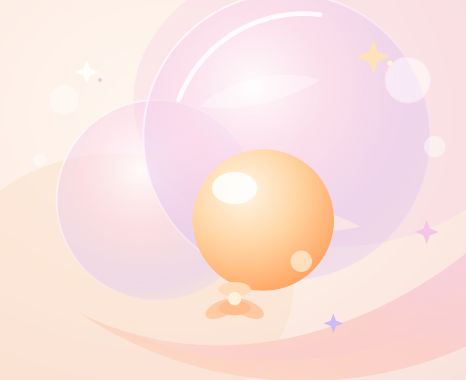
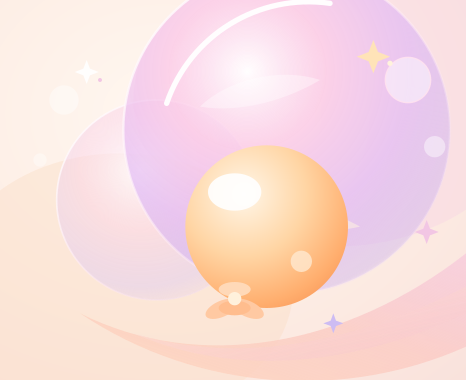
explore: the mock's remaining richness — filled play triangle, luminous hero, present backdrop bubbles, translucent glass
Element-by-element against the mock, four things were below it:

- the video tile's play is the mock's FILLED rounded triangle (drawn on
  both platforms — no filled-play glyph exists in the icon sets), not an
  outline circle-in-disc
- the hero bubbles are larger and more saturated, the sheen arc bolder,
  the core bigger — closer to the mock's luminosity
- the backdrop carries an extra iridescent bubble at the left edge and
  stronger presence on the existing ones
- every panel's glass fill opens from 0.97/0.88 to 0.90/0.79 so the
  backdrop shows through the cards the way the mock's glass does

diff --git a/ios/App/Sources/Features/Explore/ExploreView.swift b/ios/App/Sources/Features/Explore/ExploreView.swift
@@ -187,8 +187,8 @@ private struct ExploreGlass: ViewModifier {
                     .fill(
                         LinearGradient(
                             colors: [
-                                Color(red: 1.0, green: 0.980, blue: 0.965).opacity(0.97),
-                                Color(red: 0.988, green: 0.929, blue: 0.898).opacity(0.88),
+                                Color(red: 1.0, green: 0.980, blue: 0.965).opacity(0.90),
+                                Color(red: 0.988, green: 0.929, blue: 0.898).opacity(0.79),
                             ],
                             startPoint: .topLeading, endPoint: .bottomTrailing
                         )
@@ -208,14 +208,46 @@ private struct ExploreGlass: ViewModifier {
     }
 }
 
+/// The mock's play: a filled rounded triangle (no filled-play glyph in the set).
+private struct PlayTriangle: Shape {
+    func path(in rect: CGRect) -> Path {
+        var p = Path()
+        let w = rect.width; let h = rect.height
+        p.move(to: CGPoint(x: w * 0.28, y: h * 0.16))
+        p.addCurve(to: CGPoint(x: w * 0.82, y: h * 0.42),
+                   control1: CGPoint(x: w * 0.42, y: h * 0.08),
+                   control2: CGPoint(x: w * 0.55, y: h * 0.14))
+        p.addCurve(to: CGPoint(x: w * 0.82, y: h * 0.58),
+                   control1: CGPoint(x: w * 0.92, y: h * 0.52),
+                   control2: CGPoint(x: w * 0.92, y: h * 0.48))
+        p.addCurve(to: CGPoint(x: w * 0.28, y: h * 0.84),
+                   control1: CGPoint(x: w * 0.55, y: h * 0.86),
+                   control2: CGPoint(x: w * 0.42, y: h * 0.92))
+        p.addCurve(to: CGPoint(x: w * 0.28, y: h * 0.16),
+                   control1: CGPoint(x: w * 0.16, y: h * 0.76),
+                   control2: CGPoint(x: w * 0.16, y: h * 0.24))
+        p.closeSubpath()
+        return p
+    }
+}
+
 private struct IconCircleStyle: ViewModifier {
     var bg: Color
     var diameter: CGFloat
     var solidTile: Bool = false
+    /// Draws the filled play triangle instead of a glyph (video tile).
+    var playGlyph: Bool = false
 
     func body(content: Content) -> some View {
         content
             .frame(width: diameter, height: diameter)
+            .overlay {
+                if playGlyph {
+                    PlayTriangle()
+                        .fill(.white)
+                        .frame(width: diameter * 0.42, height: diameter * 0.42)
+                }
+            }
             .background(
                 Circle().fill(
                     solidTile
@@ -727,7 +759,8 @@ struct ExploreView: View {
                     .modifier(IconCircleStyle(
                         bg: tool.filledTile ? tool.fg : tool.bg,
                         diameter: 34,
-                        solidTile: tool.filledTile
+                        solidTile: tool.filledTile,
+                        playGlyph: tool.icon == "player-play"
                     ))
                 VStack(alignment: .leading, spacing: 2) {
                     Text(tool.title)
@@ -994,7 +1027,8 @@ struct DiscoverView: View {
                     .modifier(IconCircleStyle(
                         bg: tool.filledTile ? tool.fg : tool.bg,
                         diameter: 36,
-                        solidTile: tool.filledTile
+                        solidTile: tool.filledTile,
+                        playGlyph: tool.icon == "player-play"
                     ))
                 Text(tool.title)
                     .font(Aero.bodyMedium().weight(.semibold))
@@ -1033,7 +1067,8 @@ struct DiscoverView: View {
                                 .modifier(IconCircleStyle(
                                     bg: tool.filledTile ? tool.fg : tool.bg,
                                     diameter: 34,
-                                    solidTile: tool.filledTile
+                                    solidTile: tool.filledTile,
+                                    playGlyph: tool.icon == "player-play"
                                 ))
                             VStack(alignment: .leading, spacing: 2) {
                                 Text(tool.title)
@@ -1076,7 +1111,8 @@ struct DiscoverView: View {
                                     .modifier(IconCircleStyle(
                                         bg: tool.filledTile ? tool.fg : tool.bg,
                                         diameter: 34,
-                                        solidTile: tool.filledTile
+                                        solidTile: tool.filledTile,
+                                        playGlyph: tool.icon == "player-play"
                                     ))
                                 VStack(alignment: .leading, spacing: 2) {
                                     Text(tool.title)

diff --git a/android/app/src/main/java/com/grapsee/gsai/ui/explore/ExploreScreen.kt b/android/app/src/main/java/com/grapsee/gsai/ui/explore/ExploreScreen.kt
@@ -6,6 +6,8 @@ import androidx.compose.animation.fadeIn
 import androidx.compose.animation.fadeOut
 import androidx.compose.animation.shrinkVertically
 import androidx.compose.foundation.Image
+import androidx.compose.ui.graphics.Path
+import androidx.compose.foundation.Canvas
 import androidx.compose.foundation.background
 import androidx.compose.foundation.border
 import androidx.compose.foundation.clickable
@@ -431,8 +433,8 @@ private fun Modifier.exploreGlass(
         .clip(shape)
         .background(
             Brush.linearGradient(
-                0f to Color(0xFFFFFAF6).copy(alpha = if (isDark) 0.90f else 0.97f),
-                1f to Color(0xFFFCEDE5).copy(alpha = if (isDark) 0.80f else 0.88f),
+                0f to Color(0xFFFFFAF6).copy(alpha = if (isDark) 0.85f else 0.90f),
+                1f to Color(0xFFFCEDE5).copy(alpha = if (isDark) 0.74f else 0.79f),
                 start = androidx.compose.ui.geometry.Offset.Zero,
                 end = androidx.compose.ui.geometry.Offset.Infinite,
             ),
@@ -481,12 +483,29 @@ private fun ExploreIconCircle(
             ),
         contentAlignment = Alignment.Center,
     ) {
-        Icon(
-            exploreIcon(tool.icon),
-            contentDescription = null,
-            tint = glyphTint,
-            modifier = Modifier.size(glyph),
-        )
+        if (tool.icon == "player-play") {
+            // the mock's play is a filled rounded triangle, not an outline glyph
+            Canvas(Modifier.size(glyph)) {
+                val w = size.width
+                val h = size.height
+                val p = Path().apply {
+                    moveTo(w * 0.28f, h * 0.16f)
+                    cubicTo(w * 0.42f, h * 0.08f, w * 0.55f, h * 0.14f, w * 0.82f, h * 0.42f)
+                    cubicTo(w * 0.92f, h * 0.52f, w * 0.92f, h * 0.48f, w * 0.82f, h * 0.58f)
+                    cubicTo(w * 0.55f, h * 0.86f, w * 0.42f, h * 0.92f, w * 0.28f, h * 0.84f)
+                    cubicTo(w * 0.16f, h * 0.76f, w * 0.16f, h * 0.24f, w * 0.28f, h * 0.16f)
+                    close()
+                }
+                drawPath(p, Color.White)
+            }
+        } else {
+            Icon(
+                exploreIcon(tool.icon),
+                contentDescription = null,
+                tint = glyphTint,
+                modifier = Modifier.size(glyph),
+            )
+        }
     }
 }
 
